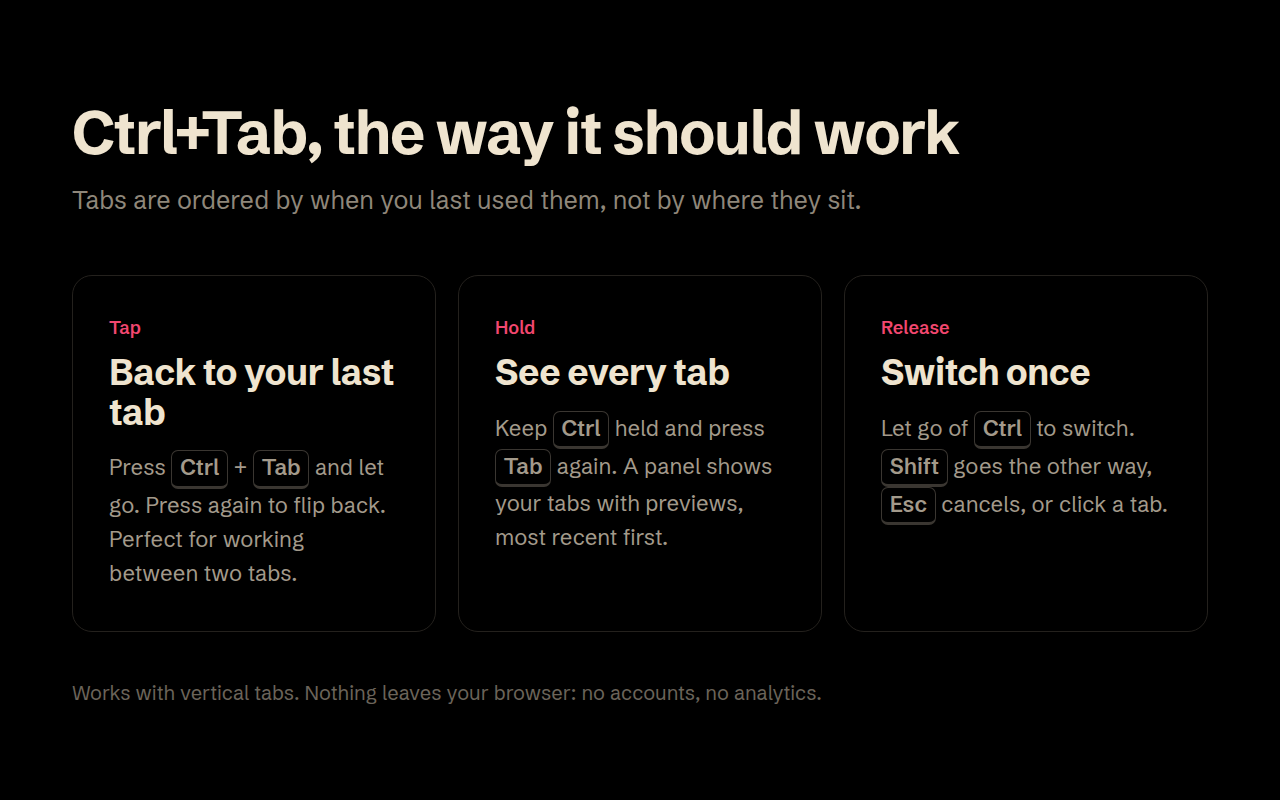
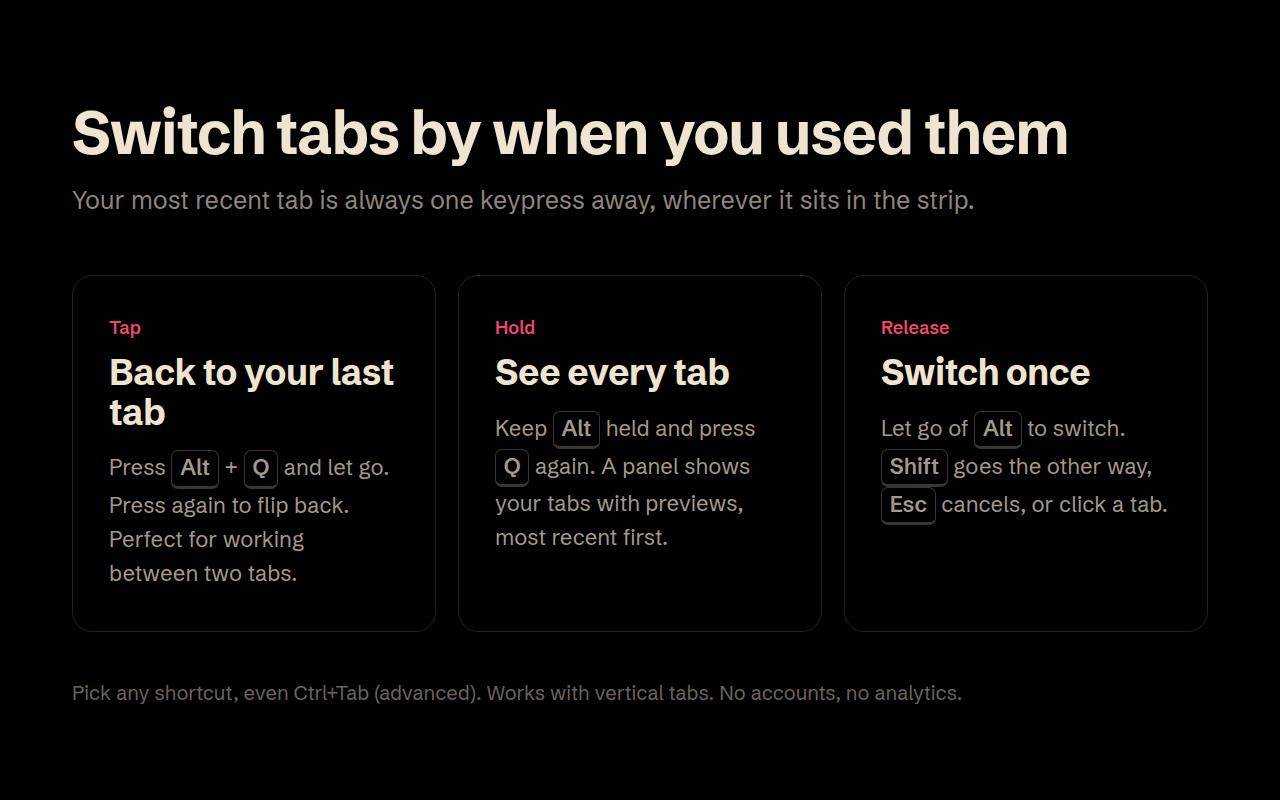
Make Alt+Q the official shortcut; move Ctrl+Tab to an advanced option; rename to Tab Cycle

diff --git a/tab-cycle/options.html b/tab-cycle/options.html
@@ -3,9 +3,9 @@
 <head>
 <meta charset="utf-8">
 <meta name="viewport" content="width=device-width, initial-scale=1">
-<title>Recent Tab Switcher</title>
+<title>Tab Cycle</title>
 <style>
-  :root { color-scheme: dark; scrollbar-color: #2a2a2a #000; --ink: #efe4cf; --dim: #8f877a; --faint: #5e584f; --line: #1c1a17; --accent: #f2476f; }
+  :root { color-scheme: dark; scrollbar-color: #2a2a2a #000; --ink: #efe4cf; --dim: #8f877a; --faint: #5e584f; --line: #1c1a17; --accent: #f2476f; --warn: #e8a23a; }
   * { box-sizing: border-box; }
   body { margin: 0; background: #000; color: var(--ink); font: 15px/1.55 system-ui, -apple-system, "Segoe UI", sans-serif; }
   main { max-width: 680px; margin: 0 auto; padding: 48px 16px 80px; }
@@ -15,19 +15,26 @@
   header p { margin: 2px 0 0; color: var(--dim); }
   h2 { font-size: 15px; margin: 40px 0 6px; font-weight: 650; }
   p, li { color: var(--dim); }
-  a { color: var(--ink); }
   code, kbd { font: 13px ui-monospace, "SF Mono", Menlo, Consolas, monospace; color: var(--ink); }
-  kbd { border: 1px solid #333; border-bottom-width: 2px; border-radius: 5px; padding: 1px 6px; }
-  .status { display: flex; align-items: center; gap: 10px; padding: 12px 14px; border: 1px solid var(--line); border-radius: 10px; margin: 12px 0 16px; }
-  .dot { width: 8px; height: 8px; border-radius: 50%; background: var(--faint); flex: none; }
-  .status.ok .dot { background: #7bd88f; }
-  .status.ok { border-color: #1f3324; }
+  kbd { border: 1px solid #333; border-bottom-width: 2px; border-radius: 5px; padding: 1px 6px; white-space: nowrap; }
+  .status { display: flex; align-items: center; justify-content: space-between; gap: 12px; padding: 12px 14px; border: 1px solid var(--line); border-radius: 10px; margin: 12px 0; }
+  .status span { color: var(--ink); }
   ol { padding-left: 20px; }
   ol li { margin: 6px 0; }
   pre { background: #0a0908; border: 1px solid var(--line); border-radius: 10px; padding: 12px 14px; white-space: pre-wrap; word-break: break-all; color: #d9cfbb; font-size: 12.5px; margin: 10px 0; }
-  button { font: inherit; font-size: 14px; background: var(--ink); color: #000; border: 0; border-radius: 8px; padding: 7px 14px; cursor: pointer; font-weight: 600; }
+  button { font: inherit; font-size: 14px; background: var(--ink); color: #000; border: 0; border-radius: 8px; padding: 7px 14px; cursor: pointer; font-weight: 600; white-space: nowrap; }
   button.quiet { background: transparent; color: var(--ink); border: 1px solid #2c2925; }
-  button:focus-visible, input:focus-visible { outline: 2px solid var(--accent); outline-offset: 2px; }
+  button:focus-visible, input:focus-visible, summary:focus-visible { outline: 2px solid var(--accent); outline-offset: 2px; }
+  details { margin-top: 40px; border: 1px solid var(--line); border-radius: 12px; padding: 0 16px; }
+  summary { cursor: pointer; padding: 14px 0; font-weight: 650; list-style: none; display: flex; justify-content: space-between; }
+  summary::-webkit-details-marker { display: none; }
+  summary::after { content: "Show"; color: var(--faint); font-weight: 400; font-size: 13px; }
+  details[open] summary::after { content: "Hide"; }
+  details[open] { padding-bottom: 16px; }
+  .hazard { border: 1px solid #4a3413; background: #120c03; border-radius: 10px; padding: 12px 14px; margin: 4px 0 14px; }
+  .hazard strong { color: var(--warn); }
+  .hazard ul { margin: 6px 0 0; padding-left: 18px; }
+  .hazard li { margin: 4px 0; }
   .row { display: flex; justify-content: space-between; align-items: center; gap: 20px; padding: 14px 0; border-top: 1px solid var(--line); }
   .row small { display: block; color: var(--faint); font-size: 13px; margin-top: 2px; }
   input[type=checkbox] { width: 18px; height: 18px; accent-color: var(--ink); flex: none; }
@@ -41,22 +48,17 @@
   <header>
     <img src="icons/128.png" alt="">
     <div>
-      <h1>Recent Tab Switcher</h1>
-      <p>Tap <kbd>Ctrl</kbd>+<kbd>Tab</kbd> to jump back to your last tab. Hold <kbd>Ctrl</kbd> and keep pressing <kbd>Tab</kbd> to see every tab, most recent first.</p>
+      <h1>Tab Cycle</h1>
+      <p>Tap <kbd class="sc-full">Alt+Q</kbd> to jump back to your last tab. Hold <kbd class="sc-mod">Alt</kbd> and press <kbd class="sc-key">Q</kbd> again to see every tab, most recent first.</p>
     </div>
   </header>
 
-  <h2>Use Ctrl+Tab</h2>
-  <div class="status" id="status"><span class="dot"></span><span id="statusText">Checking your shortcuts…</span></div>
-  <p>The browser's shortcut screen won't accept <kbd>Ctrl</kbd>+<kbd>Tab</kbd>, but it can be set once from its console:</p>
-  <ol>
-    <li><button class="quiet" id="openShortcuts">Open the shortcuts page</button> <span id="shortcutsUrl"></span></li>
-    <li>Press <kbd>F12</kbd> and open the <b>Console</b> tab. If pasting is blocked, type <code>allow pasting</code> and press <kbd>Enter</kbd>.</li>
-    <li>Paste this and press <kbd>Enter</kbd>. It only changes this extension's shortcuts.</li>
-  </ol>
-  <pre id="snippet"></pre>
-  <button id="copy">Copy</button>
-  <p>Prefer not to? The default shortcut is <kbd>Alt</kbd>+<kbd>Q</kbd>, and you can pick any other on the shortcuts page.</p>
+  <h2>Shortcut</h2>
+  <div class="status">
+    <span id="statusText">Checking…</span>
+    <button class="quiet" id="openShortcuts">Change shortcut</button>
+  </div>
+  <p>Tap it to flip between your two most recent tabs. Hold the first key and keep pressing the second to see all tabs; let go to switch, or press <kbd>Esc</kbd> to cancel. Adding <kbd>Shift</kbd> goes the other way.</p>
 
   <h2>Settings</h2>
   <label class="row">
@@ -68,17 +70,37 @@
     <input type="checkbox" id="previews">
   </label>
   <label class="row">
-    <span>Switch when you let go of Ctrl<small>Off: a cycle ends after the timeout below instead.</small></span>
+    <span>Switch when you let go<small>Off: a cycle ends after the timeout below instead.</small></span>
     <input type="checkbox" id="commitOnRelease">
   </label>
   <div class="row">
-    <span>Fallback timeout (ms)<small>Used where letting go of Ctrl can't be detected: browser pages like settings and the new tab page, or with the address bar focused.</small></span>
+    <span>Fallback timeout (ms)<small>Used where letting go can't be detected: browser pages like settings and the new tab page, or with the address bar focused.</small></span>
     <input type="number" id="timeout" min="200" max="5000" step="50" aria-label="Fallback timeout in milliseconds">
   </div>
 
+  <details id="advanced">
+    <summary>Advanced: use Ctrl+Tab instead</summary>
+    <div class="hazard" role="note">
+      <strong>For experienced users. Proceed at your own risk.</strong>
+      <ul>
+        <li>The browser doesn't let extensions take <kbd>Ctrl</kbd>+<kbd>Tab</kbd>, so this is done by running a command in the browser's developer console.</li>
+        <li>It replaces the browser's own <kbd>Ctrl</kbd>+<kbd>Tab</kbd> (next tab to the right) for as long as this extension is installed.</li>
+        <li>Only paste code into a console when you understand it. This snippet only changes this extension's two shortcuts; read it before running it.</li>
+        <li>To undo, set a different shortcut with <b>Change shortcut</b> above, or remove the extension.</li>
+      </ul>
+    </div>
+    <ol>
+      <li><button class="quiet" id="openShortcuts2">Open the shortcuts page</button> <span class="shortcutsUrl"></span></li>
+      <li>Press <kbd>F12</kbd> and open the <b>Console</b> tab. If pasting is blocked, type <code>allow pasting</code> and press <kbd>Enter</kbd>.</li>
+      <li>Paste this and press <kbd>Enter</kbd>, then come back here.</li>
+    </ol>
+    <pre id="snippet"></pre>
+    <button id="copy">Copy</button>
+  </details>
+
   <h2>Recent activity</h2>
-  <p>What each Ctrl+Tab did and why. If something misbehaves, copy this into your report.</p>
-  <pre id="trace">Nothing yet. Press Ctrl+Tab in a tab, then come back.</pre>
+  <p>What each press did and why. If something misbehaves, copy this into your report.</p>
+  <pre id="trace">Nothing yet. Use the shortcut in a tab, then come back.</pre>
   <button class="quiet" id="copyTrace">Copy log</button>
 
   <p class="privacy">Everything stays in your browser. Tab order, previews and this log live in memory and are cleared when the browser closes. Nothing is sent anywhere, and there are no analytics.</p>

diff --git a/tab-cycle/options.js b/tab-cycle/options.js
@@ -15,33 +15,41 @@ $('timeout').addEventListener('change', (e) => {
   chrome.storage.sync.set({ timeout: v });
 });
 
-// ---------- Ctrl+Tab setup ----------
+// ---------- shortcut ----------
 const isEdge = (navigator.userAgentData?.brands || []).some((b) => /Edge/i.test(b.brand)) || / Edg\//.test(navigator.userAgent);
 const shortcutsUrl = (isEdge ? 'edge' : 'chrome') + '://extensions/shortcuts';
-$('shortcutsUrl').textContent = shortcutsUrl;
-$('openShortcuts').addEventListener('click', () => chrome.tabs.create({ url: shortcutsUrl }));
-
-const id = chrome.runtime.id;
-$('snippet').textContent =
-`chrome.developerPrivate.updateExtensionCommand({ extensionId: "${id}", commandName: "cycle-forward", keybinding: "Ctrl+Tab" });
-chrome.developerPrivate.updateExtensionCommand({ extensionId: "${id}", commandName: "cycle-backward", keybinding: "Ctrl+Shift+Tab" });`;
+for (const el of document.querySelectorAll('.shortcutsUrl')) el.textContent = shortcutsUrl;
+for (const id of ['openShortcuts', 'openShortcuts2']) $(id).addEventListener('click', () => chrome.tabs.create({ url: shortcutsUrl }));
 
 const flash = (btn, text) => { const old = btn.textContent; btn.textContent = text; setTimeout(() => (btn.textContent = old), 1200); };
-$('copy').addEventListener('click', async () => { await navigator.clipboard.writeText($('snippet').textContent); flash($('copy'), 'Copied'); });
 
 async function showShortcuts() {
   const cmds = await chrome.commands.getAll();
   const fwd = cmds.find((c) => c.name === 'cycle-forward')?.shortcut || '';
   const back = cmds.find((c) => c.name === 'cycle-backward')?.shortcut || '';
-  const ctrlTab = /^Ctrl\+Tab$/i.test(fwd);
-  $('status').classList.toggle('ok', ctrlTab);
-  $('statusText').textContent = ctrlTab
-    ? `Ctrl+Tab is set${back ? ` (and ${back} for the other direction)` : ''}. You're done.`
-    : `Current shortcut: ${fwd || 'none'}. Follow the steps below to use Ctrl+Tab.`;
+  $('statusText').textContent = fwd
+    ? `Your shortcut: ${fwd}${back ? ` (${back} for the other direction)` : ''}`
+    : 'No shortcut set. Use "Change shortcut" to pick one.';
+  // Make the explanation match the shortcut actually in use.
+  if (fwd) {
+    const parts = fwd.split('+');
+    const key = parts.pop();
+    for (const el of document.querySelectorAll('.sc-full')) el.textContent = fwd;
+    for (const el of document.querySelectorAll('.sc-mod')) el.textContent = parts.join('+');
+    for (const el of document.querySelectorAll('.sc-key')) el.textContent = key;
+  }
+  if (/^Ctrl\+Tab$/i.test(fwd)) $('advanced').querySelector('summary').textContent = 'Advanced: Ctrl+Tab is in use';
 }
 showShortcuts();
 // Pick up a change made on the shortcuts page when the user comes back.
 document.addEventListener('visibilitychange', () => { if (!document.hidden) showShortcuts(); });
+
+// ---------- advanced: Ctrl+Tab ----------
+const id = chrome.runtime.id;
+$('snippet').textContent =
+`chrome.developerPrivate.updateExtensionCommand({ extensionId: "${id}", commandName: "cycle-forward", keybinding: "Ctrl+Tab" });
+chrome.developerPrivate.updateExtensionCommand({ extensionId: "${id}", commandName: "cycle-backward", keybinding: "Ctrl+Shift+Tab" });`;
+$('copy').addEventListener('click', async () => { await navigator.clipboard.writeText($('snippet').textContent); flash($('copy'), 'Copied'); });
 
 // ---------- activity log ----------
 async function showTrace() {

diff --git a/tab-cycle/background.js b/tab-cycle/background.js
@@ -1,4 +1,4 @@
-// Ctrl+Tab Recent Tab Switcher — background service worker.
+// Tab Cycle — background service worker.
 //
 // Per window we keep an MRU (most-recently-used) list of tab ids.
 //

diff --git a/store/tab-switcher/LISTING.md b/store/tab-switcher/LISTING.md
@@ -1,6 +1,6 @@
-# Store listing: Ctrl+Tab Recent Tab Switcher (MRU)
+# Store listing: Tab Cycle (MRU) – Switch Recent Tabs
 
-**Package:** `dist/ctrl-tab-recent-tab-switcher-1.0.0.zip` (build with `tools/package.sh`)
+**Package:** `dist/tab-cycle-mru-1.0.0.zip` (build with `tools/package.sh`)
 
 **Where to submit:**
 - **Microsoft Edge Add-ons** via Partner Center: https://partner.microsoft.com/dashboard/microsoftedge
@@ -9,12 +9,12 @@
 ---
 
 ## Name
-Comes from the manifest: `Ctrl+Tab Recent Tab Switcher (MRU)`
+Comes from the manifest: `Tab Cycle (MRU) – Switch Recent Tabs`
 
 ## Short description
-Comes from the manifest (122 chars):
+Comes from the manifest (123 chars):
 
-> Ctrl+Tab through tabs in most recently used order. Tap to jump back to your last tab, hold to see every tab with previews.
+> Switch tabs in most recently used order with Alt+Q. Tap to jump back to your last tab, hold to see every tab with previews.
 
 ## Description
 Paste the following; it's 250–10,000 characters, as Edge requires.
@@ -23,10 +23,10 @@ Paste the following; it's 250–10,000 characters, as Edge requires.
 Switch tabs the way you actually work: by when you last used them, not by where they sit in the tab strip.
 
 TAP to go back
-Press Ctrl+Tab and let go to jump to the tab you were just on. Press it again to flip back. Perfect for working between two tabs, like docs and code, or an email and a spreadsheet.
+Press Alt+Q and let go to jump to the tab you were just on. Press it again to flip back. Perfect for working between two tabs, like docs and code, or an email and a spreadsheet.
 
 HOLD to see every tab
-Keep Ctrl held and press Tab again. A panel appears with your tabs and page previews, most recent first. Keep pressing Tab to move through them, Shift+Tab to go back, then let go of Ctrl to switch. Esc cancels, and you can also click a tab.
+Keep Alt held and press Q again. A panel appears with your tabs and page previews, most recent first. Keep pressing Q to move through them, Shift+Q to go back, then let go of Alt to switch. Esc cancels, and you can also click a tab.
 
 Nothing switches until you let go, so the tabs you pass over keep their place in your history.
 
@@ -36,11 +36,11 @@ FEATURES
 • Switcher panel with page previews, titles and site icons
 • Works with vertical tabs and horizontal tabs
 • Also works from the address bar and browser pages, switching directly there
-• Ctrl+Tab, Alt+Q or any shortcut you like
+• Alt+Q by default; change it to any shortcut you like
 • Dark, minimal design
 
-SETTING UP CTRL+TAB
-Browsers don't let extensions claim Ctrl+Tab from the regular shortcuts screen. The settings page that opens after install walks you through a one-time step (copy, paste into the console of the shortcuts page, done). Or keep the default Alt+Q.
+PREFER CTRL+TAB?
+Browsers don't let extensions take Ctrl+Tab from the normal shortcuts screen. For experienced users, the settings page has an advanced, at-your-own-risk option that assigns Ctrl+Tab with a one-time step in the browser's developer console. It's clearly explained and easy to undo.
 
 PRIVATE BY DESIGN
 • No accounts, no analytics, no ads, no network requests
@@ -48,21 +48,21 @@ PRIVATE BY DESIGN
 • Previews are never taken in InPrivate windows, and you can turn them off
 
 Permissions explained:
-• Read your browsing history / all sites: to know which tabs you've used, show their titles and previews, and notice when you let go of Ctrl on the page you're on. Nothing leaves your browser.
+• Read your browsing history / all sites: to know which tabs you've used, show their titles and previews, and notice when you let go of the shortcut on the page you're on. Nothing leaves your browser.
 ```
 
 ## Category
 **Productivity**
 
 ## Search terms
-Edge allows 7 terms, each 30 characters or fewer, 21 words in total. These use 18 words:
-1. `ctrl tab`
+Edge allows 7 terms, each 30 characters or fewer, 21 words in total. These use 17 words:
+1. `tab cycle`
 2. `recent tabs`
-3. `tab switcher`
-4. `last used tab`
-5. `mru tab order`
-6. `switch between tabs`
-7. `previous tab shortcut`
+3. `ctrl tab`
+4. `tab switcher`
+5. `last used tab`
+6. `mru tab order`
+7. `switch between tabs`
 
 ## Graphics
 All files are in this folder.
@@ -90,7 +90,7 @@ For the Chrome Web Store:
 **Support contact:** md.nabeel.dev@gmail.com
 
 **Single purpose:**
-> Lets the user switch browser tabs in most-recently-used order with a keyboard shortcut (Ctrl+Tab), including a switcher panel that lists open tabs.
+> Lets the user switch browser tabs in most-recently-used order with a keyboard shortcut (Alt+Q by default), including a switcher panel that lists open tabs.
 
 **Permission justifications:**
 
@@ -100,7 +100,7 @@ For the Chrome Web Store:
 | `storage` | Saves the user's settings, and keeps the most-recently-used tab order and preview images in session (memory-only) storage, so it survives the background worker sleeping. |
 | `scripting` | Checks, at the moment the shortcut is pressed, whether the current page saw the modifier key go down (to decide whether the panel can be shown there). Also adds the key-release listener to tabs that were already open at install. |
 | `favicon` | Shows each tab's site icon in the switcher panel. |
-| Host permission `<all_urls>` | The content script must run on every site to detect when the user releases Ctrl, which is when the switch happens. It's also required by `tabs.captureVisibleTab` to make the tab preview images. The script only listens for modifier key events and never reads or changes page content. |
+| Host permission `<all_urls>` | The content script must run on every site to detect when the user releases the shortcut's modifier key, which is when the switch happens. It's also required by `tabs.captureVisibleTab` to make the tab preview images. The script only listens for modifier key events and never reads or changes page content. |
 
 **Remote code:** No. All code is in the package; no remote scripts, no `eval`.
 
@@ -112,18 +112,18 @@ For the Chrome Web Store:
 Paste this into the field for testers:
 
 ```
-No account or setup needed.
+No account or setup needed. Shortcut: Alt+Q (Alt+Shift+Q for the other direction).
 
-Default shortcut: Alt+Q (and Alt+Shift+Q for the other direction).
 1. Open 3–4 normal websites in tabs, visiting them one after another.
 2. Tap Alt+Q: switches to the previously used tab. Tap again: back.
 3. Hold Alt, press Q three times, then let go of Alt: a panel with tab previews
    appears while Alt is held; releasing switches to the selected tab.
    Esc cancels.
 
-The settings page opens on install. Its "Use Ctrl+Tab" section is optional:
-it shows how a user can assign Ctrl+Tab themselves via the browser's own
-extension shortcuts page. The extension never changes browser shortcuts by itself.
+The settings page opens on install. Its collapsed "Advanced: use Ctrl+Tab
+instead" section is optional and marked as at-your-own-risk: it explains how a
+user can assign Ctrl+Tab themselves through the browser's own extension
+shortcuts page. The extension never changes browser shortcuts by itself.
 
 Note: on browser-internal pages (edge://..., the new tab page) the panel can't
 be drawn, so the first press switches tabs directly; this is expected.
@@ -132,5 +132,5 @@ be drawn, so the first press switches tabs directly; this is expected.
 ## Before you submit
 - [x] Privacy policy is hosted at https://github.com/m-d-nabeel/edge-extensions/blob/main/PRIVACY.md
 - [x] Support contact `md.nabeel.dev@gmail.com`, website https://github.com/m-d-nabeel/edge-extensions
-- [ ] Run `tools/package.sh`, then upload `dist/ctrl-tab-recent-tab-switcher-1.0.0.zip`.
+- [ ] Run `tools/package.sh`, then upload `dist/tab-cycle-mru-1.0.0.zip`.
 - [ ] Markets: all. Visibility: public.

diff --git a/README.md b/README.md
@@ -2,7 +2,7 @@
 
 | Folder | Store name | What it is |
 |---|---|---|
-| `tab-cycle/` | **Ctrl+Tab Recent Tab Switcher (MRU)** | Ctrl+Tab in most-recently-used order, with a switcher panel |
+| `tab-cycle/` | **Tab Cycle (MRU) – Switch Recent Tabs** | Alt+Q (or Ctrl+Tab, advanced) switches tabs in most-recently-used order, with a switcher panel |
 | `amoled-theme/` | **AMOLED Pure Black Theme – Totality** | True-black OLED theme with an eclipse on the new tab page |
 
 ## Publishing
@@ -21,19 +21,19 @@
   - `node tools/theme_screens.mjs`: real browser windows; needs a desktop session.
 - **Eclipse artwork:** `python tools/render_totality.py` (needs numpy and Pillow).
 
-## Ctrl+Tab Recent Tab Switcher: how it works
-- **Tap Ctrl+Tab:** switches straight to your previous tab with no panel. Tap again to toggle back.
-- **Hold Ctrl and press Tab again:** a panel shows your tabs with previews, most recent first. Tab and Shift+Tab move the selection.
+## Tab Cycle: how it works
+- **Tap Alt+Q:** switches straight to your previous tab with no panel. Tap again to toggle back.
+- **Hold Alt and press Q again:** a panel shows your tabs with previews, most recent first. Q and Shift+Q move the selection.
 - **Let go:** switches once, so the tabs you passed over keep their place in the history.
 - **Cancel:** Esc, clicking outside the panel or Alt+Tab away.
 - **Where the panel isn't possible** (address bar focused, `edge://` pages, the new tab page): the first press switches directly, and a second press while holding brings up the panel on the tab you landed on.
-- **Default shortcut:** Alt+Q. Ctrl+Tab needs a one-time console step, which the settings page walks you through.
+- **Shortcut:** Alt+Q is the official shortcut. Ctrl+Tab is possible as an advanced, at-your-own-risk option on the settings page; it needs a one-time console step, because browsers don't let extensions claim Ctrl+Tab.
 - **Troubleshooting:** Settings → Recent activity shows what each press did and why.
 
 **Reliability details:**
 - The panel only opens on a page that saw the modifier go down, because only that page is certain to see it come up.
 - Release timing uses the background's own clock, never the page's.
-- Backstops: moving the mouse over the panel with Ctrl already up switches, and the panel closes after 8 s.
+- Backstops: moving the mouse over the panel with the modifier already up switches, and the panel closes after 8 s.
 
 **Security and privacy:**
 - Only real key events count (`isTrusted`), so pages can't fake key presses.
@@ -51,9 +51,9 @@
 **Tested** in Edge 157 (native Wayland, real kernel-level keystrokes via `/dev/uinput`, vertical tabs):
 - tap
 - hold
-- fast Ctrl+Tab then Tab Tab
+- fast Ctrl+Tab then Tab Tab (advanced binding)
 - address bar focused
-- default Alt+Q
+- Alt+Q (official)
 - Shift for the other direction
 - Esc
 - extension reload with tabs already open

diff --git a/PRIVACY.md b/PRIVACY.md
@@ -3,13 +3,13 @@
 **Effective date:** November 8, 2026
 
 This policy covers two browser add-ons by Md Nabeel:
-- **Ctrl+Tab Recent Tab Switcher (MRU)**, an extension
+- **Tab Cycle (MRU) – Switch Recent Tabs**, an extension
 - **AMOLED Pure Black Theme – Totality**, a theme
 
 ## Summary
 Neither add-on collects, transmits, sells or shares any data. There are no accounts, no analytics, no advertising and no remote servers. Everything described below stays inside your browser on your device.
 
-## Ctrl+Tab Recent Tab Switcher (MRU)
+## Tab Cycle (MRU) – Switch Recent Tabs
 
 To switch tabs in recently used order, the extension works with the following information. All of it is processed locally:
 
